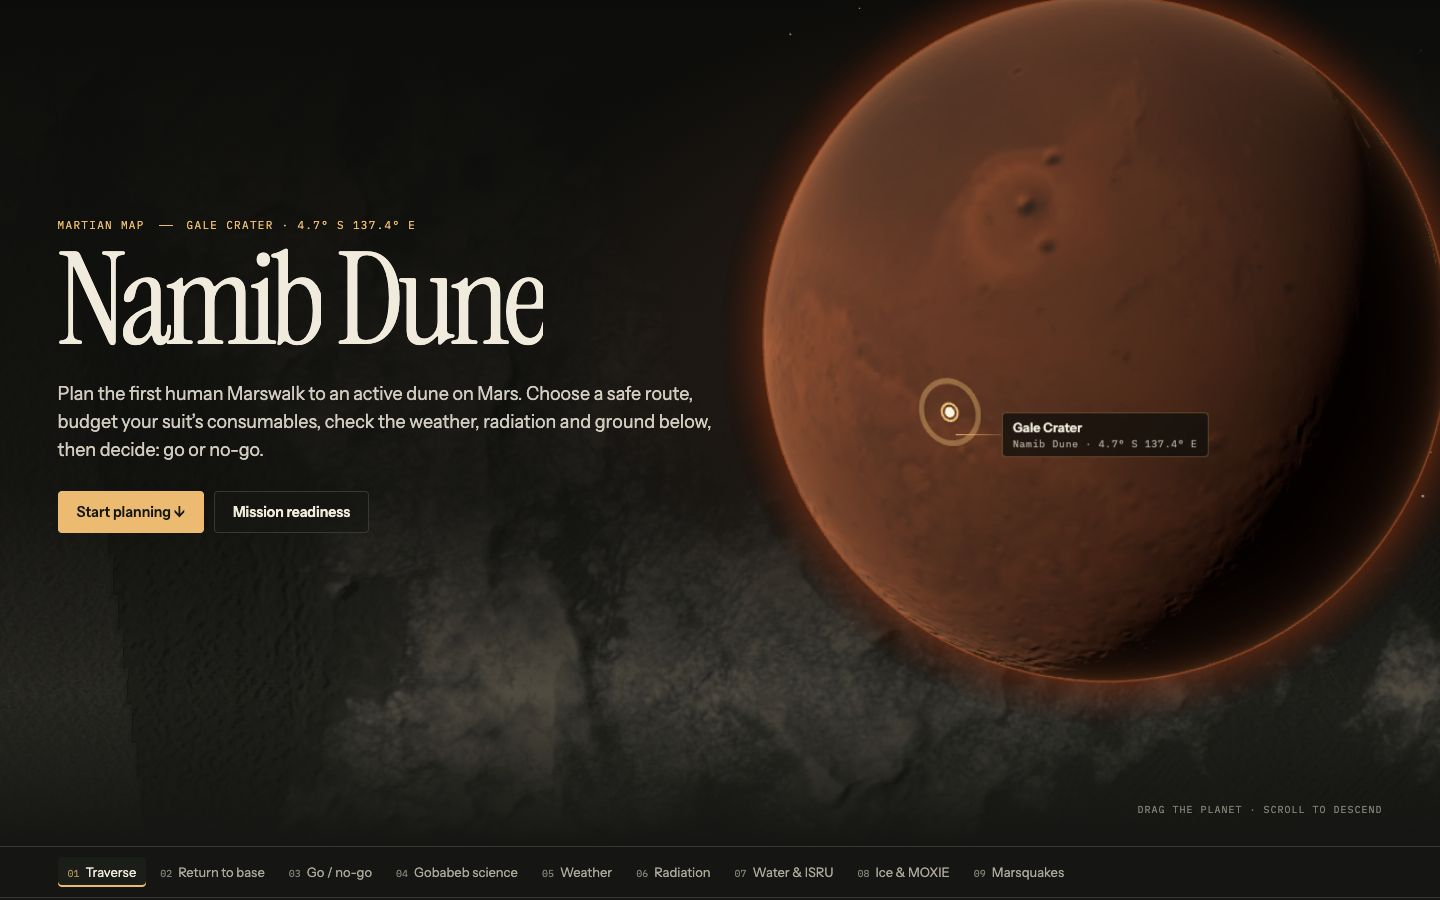
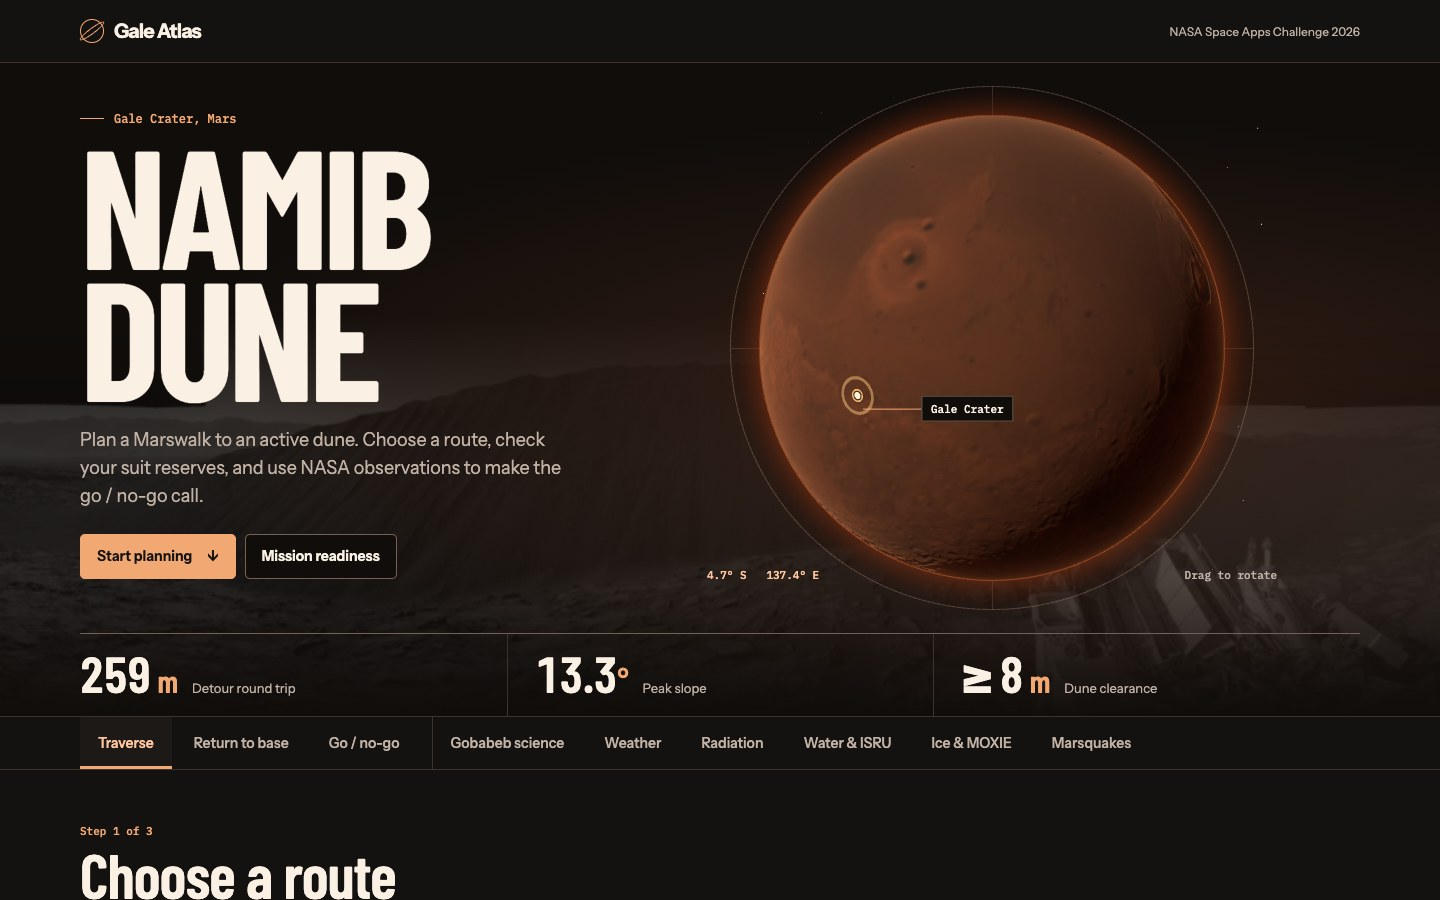
docs: Update the README for Gale Atlas

diff --git a/README.md b/README.md
@@ -1,11 +1,11 @@
 # Gale Atlas
 
-**Plan the first human Marswalk to an active dune on Mars, then make the go / no-go call.**
+Gale Atlas is a Marswalk planner for Namib Dune in Gale Crater. Compare routes, check suit reserves, and make the go / no-go call.
 
 [![NASA Space Apps Challenge 2026](https://img.shields.io/badge/NASA%20Space%20Apps-2026-blue.svg)](https://www.spaceappschallenge.org/2026/challenges/interplanetary-survival-guide-martian-map/)
 [![License: MIT](https://img.shields.io/badge/License-MIT-yellow.svg)](LICENSE)
 
-![Marswalk planner hero: Namib Dune over HiRISE imagery of Gale Crater](docs/screenshots/hero.jpg)
+![Gale Atlas home page with Gale Crater marked on the Mars globe](docs/screenshots/hero.jpg)
 
 ## The problem
 
